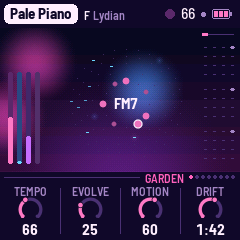
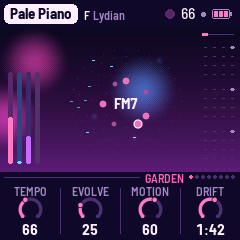
ui: the scenes cheaper (the emulator at 120 MHz drew them at 8..25 frames a second, with the audio at 57..76 %)
- glows in integer spans with a 64-step falloff table, no float per pixel; the pad's glows a little smaller
- the Long Glow's haze and both grounds row by row at the panel's precision, a half step dithered in a
  checkerboard (no bands), instead of a 120 px glow
- Clean Signal's scanlines drawn into the ground, not blended over the scene
- After Dark's haze band in integers
tools/emulator_frames.py: the gate's frames as PNGs, sheets and GIFs

diff --git a/app/visuals.c b/app/visuals.c
@@ -104,33 +104,59 @@ static void px_add(int32_t x, int32_t y, int r, int g, int b)
     }
     *q = swap16((uint32_t)((R > 31 ? 31 : R) << 11 | (G > 63 ? 63 : G) << 5 | (B > 31 ? 31 : B)));
 }
-/* a soft round glow, added: the light falls off as (1 - d^2/r^2)^2 (no square root), k its strength 0..1 */
+/* a soft round glow, added: the light falls off as (1 - d^2/r^2)^2 (no square root), k its strength 0..1. Integer
+ * spans: each row's reach from the circle, the falloff from a 64-step table of u = 1 - d^2/r^2 */
+static uint8_t glow_lut[65];
 static void glow(float cx, float cy, float r, const uint8_t *c, float k)
 {
-    int32_t x0 = (int32_t)(cx - r), x1 = (int32_t)(cx + r), y0 = (int32_t)(cy - r), y1 = (int32_t)(cy + r), x, y;
-    float ir2 = 1.0f / (r * r);
+    int32_t y0, y1, y, icx, icy, ir;
+    int32_t kq;
     if (k <= 0.01f || r < 1.0f)
         return;
-    if (y0 < 0)
-        y0 = 0;
-    if (y1 > (int32_t)cv_h - 1)
-        y1 = (int32_t)cv_h - 1;
-    for (y = y0; y <= y1; y++) {
-        float dy = (float)y - cy, dy2 = dy * dy;
-        for (x = x0; x <= x1; x++) {
-            float dx = (float)x - cx, u = 1.0f - (dx * dx + dy2) * ir2, a;
-            if (u <= 0.0f)
+    if (!glow_lut[64]) {
+        int i;
+        for (i = 0; i <= 64; i++)
+            glow_lut[i] = (uint8_t)((i * i * 255 + 2048) / 4096);
+    }
+    icx = (int32_t)cx, icy = (int32_t)cy, ir = (int32_t)r;
+    kq = (int32_t)(fm_minf(k, 1.0f) * 256.0f);
+    y0 = icy - ir < 0 ? 0 : icy - ir;
+    y1 = icy + ir > (int32_t)cv_h - 1 ? (int32_t)cv_h - 1 : icy + ir;
+    {
+        const int32_t r2 = ir * ir, inv = (64 << 16) / (r2 > 0 ? r2 : 1);
+        for (y = y0; y <= y1; y++) {
+            int32_t dy = y - icy, rem = r2 - dy * dy, x, x0, x1, w;
+            if (rem <= 0)
                 continue;
-            a = u * u * k;
-            px_add(x, y, (int)((float)c[0] * a), (int)((float)c[1] * a), (int)((float)c[2] * a));
+            w = (int32_t)fm_sqrtf((float)rem);
+            x0 = icx - w < 0 ? 0 : icx - w;
+            x1 = icx + w > 239 ? 239 : icx + w;
+            for (x = x0; x <= x1; x++) {
+                int32_t dx = x - icx, u = ((rem - dx * dx) * inv) >> 16, a;
+                if (u <= 0)
+                    continue;
+                a = glow_lut[u > 64 ? 64 : u] * kq;         /* 0..65280 */
+                px_add(x, y, (c[0] * a) >> 16, (c[1] * a) >> 16, (c[2] * a) >> 16);
+            }
         }
     }
 }
-static void vgrad(int32_t y0, int32_t h, uint16_t c0, uint16_t c1)   /* a vertical gradient, row by row */
+/* a vertical gradient, row by row, at the panel's full precision (a, b: RGB 0..255; plus a light that rises as t^2
+ * towards the bottom, its colour l and strength k) */
+static void vgrad3(const uint8_t *a, const uint8_t *b, const uint8_t *l, float k)
 {
-    int32_t y;
-    for (y = 0; y < h; y++)
-        cv_rect(0, y0 + y, (int32_t)cv_w, 1, mix(c0, c1, (int)(y * 16 / (h > 1 ? h - 1 : 1))));
+    int32_t y, i;
+    for (y = 0; y < 144; y++) {
+        float t = (float)y * (1.0f / 143.0f), h = t * t * k, c[3];
+        uint16_t lo, hi, *row = &cv_px[(uint32_t)(y + cv_oy) * cv_w];
+        int32_t x;
+        for (i = 0; i < 3; i++)
+            c[i] = fm_clampf((float)a[i] + ((float)b[i] - (float)a[i]) * t + ((float)l[i] - (float)a[i]) * h, 0.0f, 251.0f);
+        lo = swap16(RGB((int)c[0], (int)c[1], (int)c[2]));   /* a half step apart, in a checkerboard: no bands */
+        hi = swap16(RGB((int)c[0] + 4, (int)c[1] + 2, (int)c[2] + 4));
+        for (x = 0; x < 240; x++)
+            row[x] = ((x ^ y) & 1) ? hi : lo;
+    }
 }
 static void hline_a(int32_t x0, int32_t x1, int32_t y, uint16_t c, int a)
 {
@@ -266,18 +292,26 @@ static void scene_dark(void)
     const int32_t L0 = 58, L1 = 192, HZ = 100;
     int l, s, i;
     float kick = en_drum_glow[0], sn = en_drum_glow[2], echo = (float)proj.par[P_ECHO] * 0.01f, b = vis.breath;
-    vgrad(0, 144, RGB(8, 8, 8), RGB(24, 24, 24));
+    {
+        static const uint8_t TOP[3] = {8, 8, 8}, BOT[3] = {24, 24, 24};
+        vgrad3(TOP, BOT, BOT, 0.0f);
+    }
     {   /* the haze along the horizon: a band of light, wider and brighter as the bass breathes */
         float k = 0.10f + 0.30f * en_bass_level * b, hh = 14.0f + 10.0f * b;
-        int32_t y, x;
-        for (y = HZ - (int32_t)hh; y <= HZ + (int32_t)hh; y++) {
-            float dy = (float)(y - HZ) / hh, u = 1.0f - dy * dy;
-            for (x = L0 - 10; x <= L1 + 6; x += 1) {
-                float dx = (float)(x - 125) * (1.0f / 80.0f), v = u * (1.0f - dx * dx);
-                if (v > 0.0f) {
-                    int l = (int)(150.0f * v * v * k);
+        int32_t y, x, ih = (int32_t)hh;
+        static int16_t col[240];                 /* the band's shape across, 0..256 */
+        for (x = L0 - 10; x <= L1 + 6; x++) {
+            int32_t dx = x - 125;
+            col[x] = (int16_t)(dx * dx < 6400 ? 256 - dx * dx * 256 / 6400 : 0);
+        }
+        for (y = HZ - ih; y <= HZ + ih; y++) {
+            int32_t dy = y - HZ, u = 256 - dy * dy * 256 / (ih * ih + 1), lk = (int32_t)(150.0f * k);
+            if (u <= 0)
+                continue;
+            for (x = L0 - 10; x <= L1 + 6; x++) {
+                int32_t v = (u * col[x]) >> 8, l = (v * v >> 8) * lk >> 8;
+                if (l > 0)
                     px_add(x, y, l, l, l);
-                }
             }
         }
     }
@@ -354,14 +388,16 @@ static void scene_glow(void)
     const float cx = 126.0f, cy = 76.0f, b = vis.breath;
     int i, l, s;
     float kick = en_drum_glow[0], rev = (float)proj.par[P_REVERB] * 0.01f;
-    vgrad(0, 144, RGB(14, 8, 34), RGB(58, 16, 64));
-    glow(120.0f, 160.0f, 120.0f, VIOLET, 0.25f + 0.35f * en_bass_level * b);   /* the haze: the bass's breath */
+    {   /* the ground, and the haze rising from below with the bass's breath */
+        static const uint8_t TOP[3] = {14, 8, 34}, BOT[3] = {58, 16, 64};
+        vgrad3(TOP, BOT, VIOLET, 0.25f + 0.35f * en_bass_level * b);
+    }
     for (i = 0; i < EN_NPAD; i++) {              /* the pad: four slow glows */
         float a = en_pad_amp[i] * (float)proj.par[P_PAD] * 0.012f, t = (float)plat_ms() * 0.001f;
         float x = cx + 62.0f * sine(fm_fabsf(t * (0.011f + 0.004f * (float)i) + 0.23f * (float)i)) - 31.0f + (float)(i - 2) * 14.0f;
         float y = cy + 30.0f * sine(fm_fabsf(t * (0.017f + 0.003f * (float)i) + 0.61f * (float)i)) - 15.0f;
         if (a > 0.02f)
-            glow(x, y, 30.0f + 12.0f * a + 8.0f * rev, (i & 1) ? BLUE : PINK, 0.22f + 0.5f * fm_minf(a, 1.0f));
+            glow(x, y, 26.0f + 10.0f * fm_minf(a, 1.0f) + 6.0f * rev, (i & 1) ? BLUE : PINK, 0.22f + 0.5f * fm_minf(a, 1.0f));
     }
     for (l = 0; l < EN_NLOOP; l++) {             /* the loops, in neon */
         int len = EN_LOOP_LEN[l], pos = en_loop_pos[l];
@@ -435,7 +471,12 @@ static void scene_signal(void)
     int l, s, i;
     float kick = en_drum_glow[0], sn = en_drum_glow[2], mach = fm_clampf(en_arc * 2.5f, 0.0f, 1.0f), b = vis.breath;
     int32_t y;
-    cv_rect(0, 0, 240, 144, mix(K_BG, K_PANEL, (int)(6.0f * b * en_bass_level)));   /* the breath: a little light */
+    {   /* the ground (a little light with the bass's breath) and its scanlines */
+        uint16_t g = mix(K_BG, K_PANEL, (int)(6.0f * b * en_bass_level)), sl = mix(g, K_LINE, 3);
+        cv_rect(0, 0, 240, 144, g);
+        for (y = 0; y < 144; y += 2)
+            cv_rect(0, y, 240, 1, sl);
+    }
     for (y = 6; y < 144; y += 12)                /* the grid */
         cv_rect(X0, y, X1 - X0, 1, kick > 0.4f ? K_DIM : K_LINE);
     for (s = X0; s <= X1; s += 17)
@@ -470,8 +511,6 @@ static void scene_signal(void)
             }
         }
     }
-    for (y = 0; y < 144; y += 2)                 /* scanlines */
-        hline_a(0, 239, y, RGB(0, 0, 0), 9);
     if (mach > 0.05f && en_playing) {            /* the machine's half: slices shift on the pulse's hits */
         float hit = fm_maxf(kick, fm_maxf(sn, en_drum_glow[1] * 0.6f));
         if (hit > 0.5f) {

diff --git a/tools/emulator_frames.py b/tools/emulator_frames.py
@@ -1,0 +1,63 @@
+#!/usr/bin/env python3
+# SPDX-License-Identifier: MPL-2.0
+# Copyright (C) 2026 David (davidaparicio2205-dotcom)
+"""The emulator gate's frames (tools/emulator_check.sh OUTDIR) as PNGs and sheets: the LCD cut out of each panel
+picture, the end of each piece (the Setup page: audio load, xruns, frames a second), the modes run as a sheet and a
+GIF, the boot as a GIF, save and restore side by side.
+
+  tools/emulator_frames.py OUTDIR DEST        (needs Pillow)
+"""
+import sys
+from pathlib import Path
+
+from PIL import Image
+
+LCD = (370, 42, 850, 522)                         # the screen in fm1-live's 1280 x 820 panel picture (2x)
+
+
+def lcd(p):
+    im = Image.open(p).convert("RGB")
+    if im.size == (1280, 820):
+        im = im.crop(LCD).resize((240, 240), Image.LANCZOS)
+    return im
+
+
+def sheet(ims, cols, pad=6):
+    w, h = ims[0].size
+    rows = (len(ims) + cols - 1) // cols
+    s = Image.new("RGB", (cols * (w + pad) - pad, rows * (h + pad) - pad))
+    for i, im in enumerate(ims):
+        s.paste(im, ((i % cols) * (w + pad), (i // cols) * (h + pad)))
+    return s
+
+
+def main():
+    src, dst = Path(sys.argv[1]), Path(sys.argv[2])
+    dst.mkdir(parents=True, exist_ok=True)
+    ends = []
+    for p in range(8):
+        d = src / f"piece{p}"
+        if (d / "end.ppm").exists():
+            im = lcd(d / "end.ppm")
+            im.save(dst / f"piece{p + 1}-setup-end.png")
+            ends.append(im)
+    if ends:
+        sheet(ends, 4).save(dst / "pieces-setup-end.png")
+    modes = sorted((src / "modes" / "frames").glob("*.ppm"))
+    if modes:
+        ims = [lcd(f) for f in modes]
+        sheet(ims[::max(1, len(ims) // 24)][:24], 6).save(dst / "modes-and-pages.png")
+        ims[0].save(dst / "modes-and-pages.gif", save_all=True, append_images=ims[1:], duration=120, loop=0)
+    boot = sorted((src / "boot" / "frames").glob("*.ppm"))
+    if boot:
+        ims = [lcd(f) for f in boot]
+        ims[0].save(dst / "boot.gif", save_all=True, append_images=ims[1:], duration=100, loop=0)
+        sheet(ims[::5][:8], 4).save(dst / "boot.png")
+    pair = [lcd(src / s / "end.ppm") for s in ("save1", "save2") if (src / s / "end.ppm").exists()]
+    if len(pair) == 2:
+        sheet(pair, 2).save(dst / "save-restore.png")
+    print(f"frames in {dst}")
+
+
+if __name__ == "__main__":
+    main()
